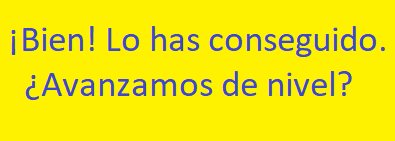
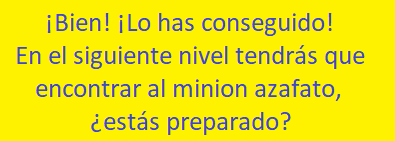
Cambio texto

Changed region(s): [[0.0304, 0.0851, 0.9722, 0.7092], [0.2127, 0.7943, 0.7595, 0.9645]]

diff --git a/index.html b/index.html
@@ -30,11 +30,11 @@
         <a-entity id="minion2-model" data-raycastable gltf-model="#minion2" position="-0.5 0 0" scale="0.01 0.01 0.01" class="clickable" gesture-handler visible="false"></a-entity>
 		
 		
-        <a-entity id="next-level-button" data-raycastable gltf-model="#button" position="0 1 2" scale="0.05 0.05 0.05" rotation="0 -90 0" class="clickable" gesture-handler visible="false"></a-entity>
+        <a-entity id="next-level-button" data-raycastable gltf-model="#button" position="0 1.5 2" scale="0.1 0.1 0.1" rotation="0 -90 0" class="clickable" gesture-handler visible="false"></a-entity>
  
-		<a-image src="texto.png" position="0 2 0" rotation="0 0 0" id="texto_inicial">
+		<a-image src="texto.png" position="0 2 0" id="texto_inicial">
         </a-image>
-        <a-image src="avanzar.png" position="0 2 0" rotation="0 0 0" id="texto_avanzar" visible="false">
+        <a-image src="avanzar.png" position="0 2 0" id="texto_avanzar" visible="false">
         </a-image>
 
 
